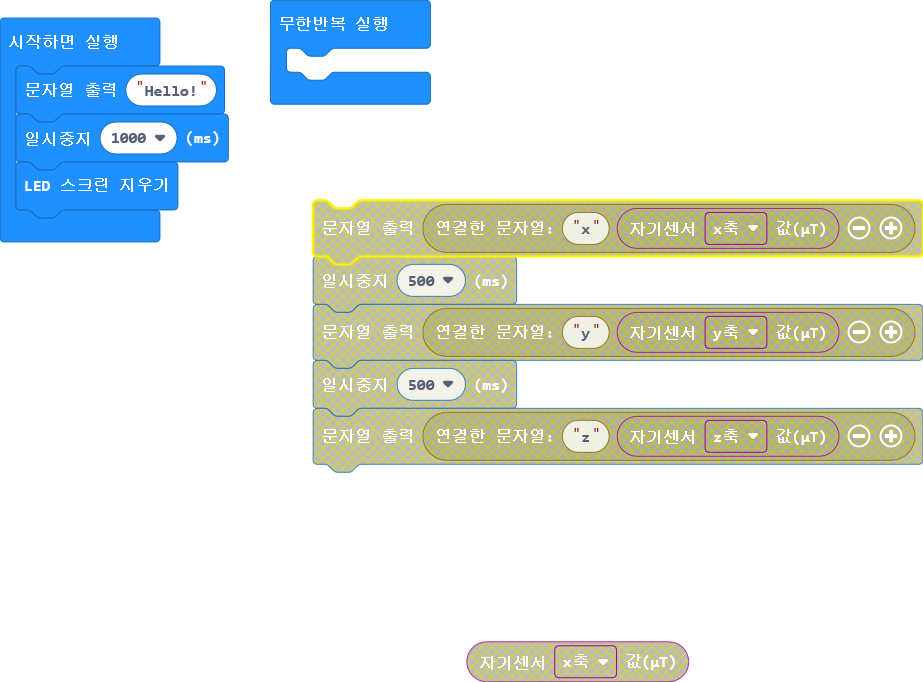
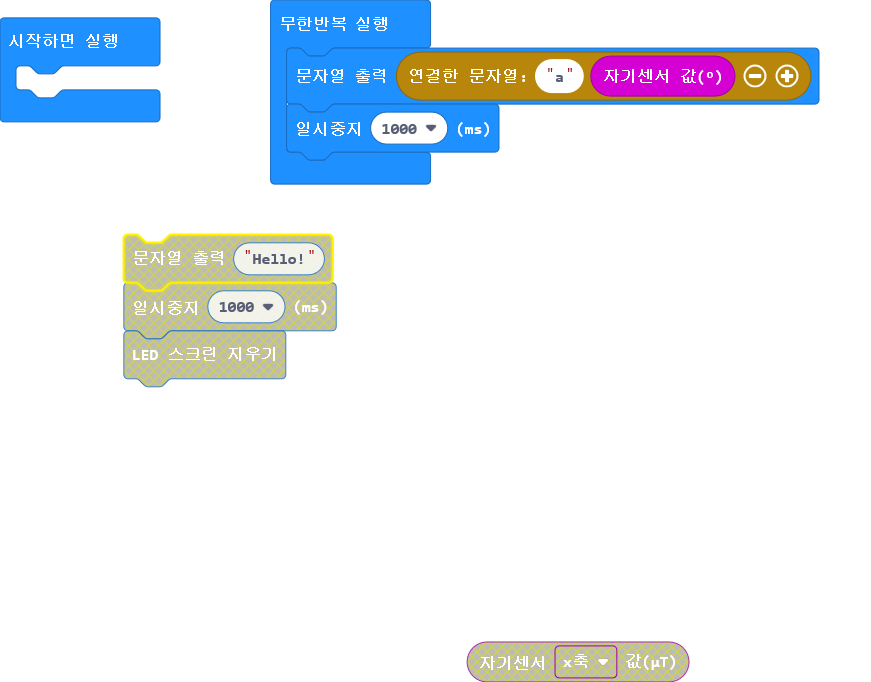
main.blocks, main.ts 업데이트하기

diff --git a/main.ts b/main.ts
@@ -1,6 +1,4 @@
-basic.showString("Hello!")
-basic.pause(1000)
-basic.clearScreen()
 basic.forever(function () {
-	
+    basic.showString("a" + input.compassHeading())
+    basic.pause(1000)
 })
